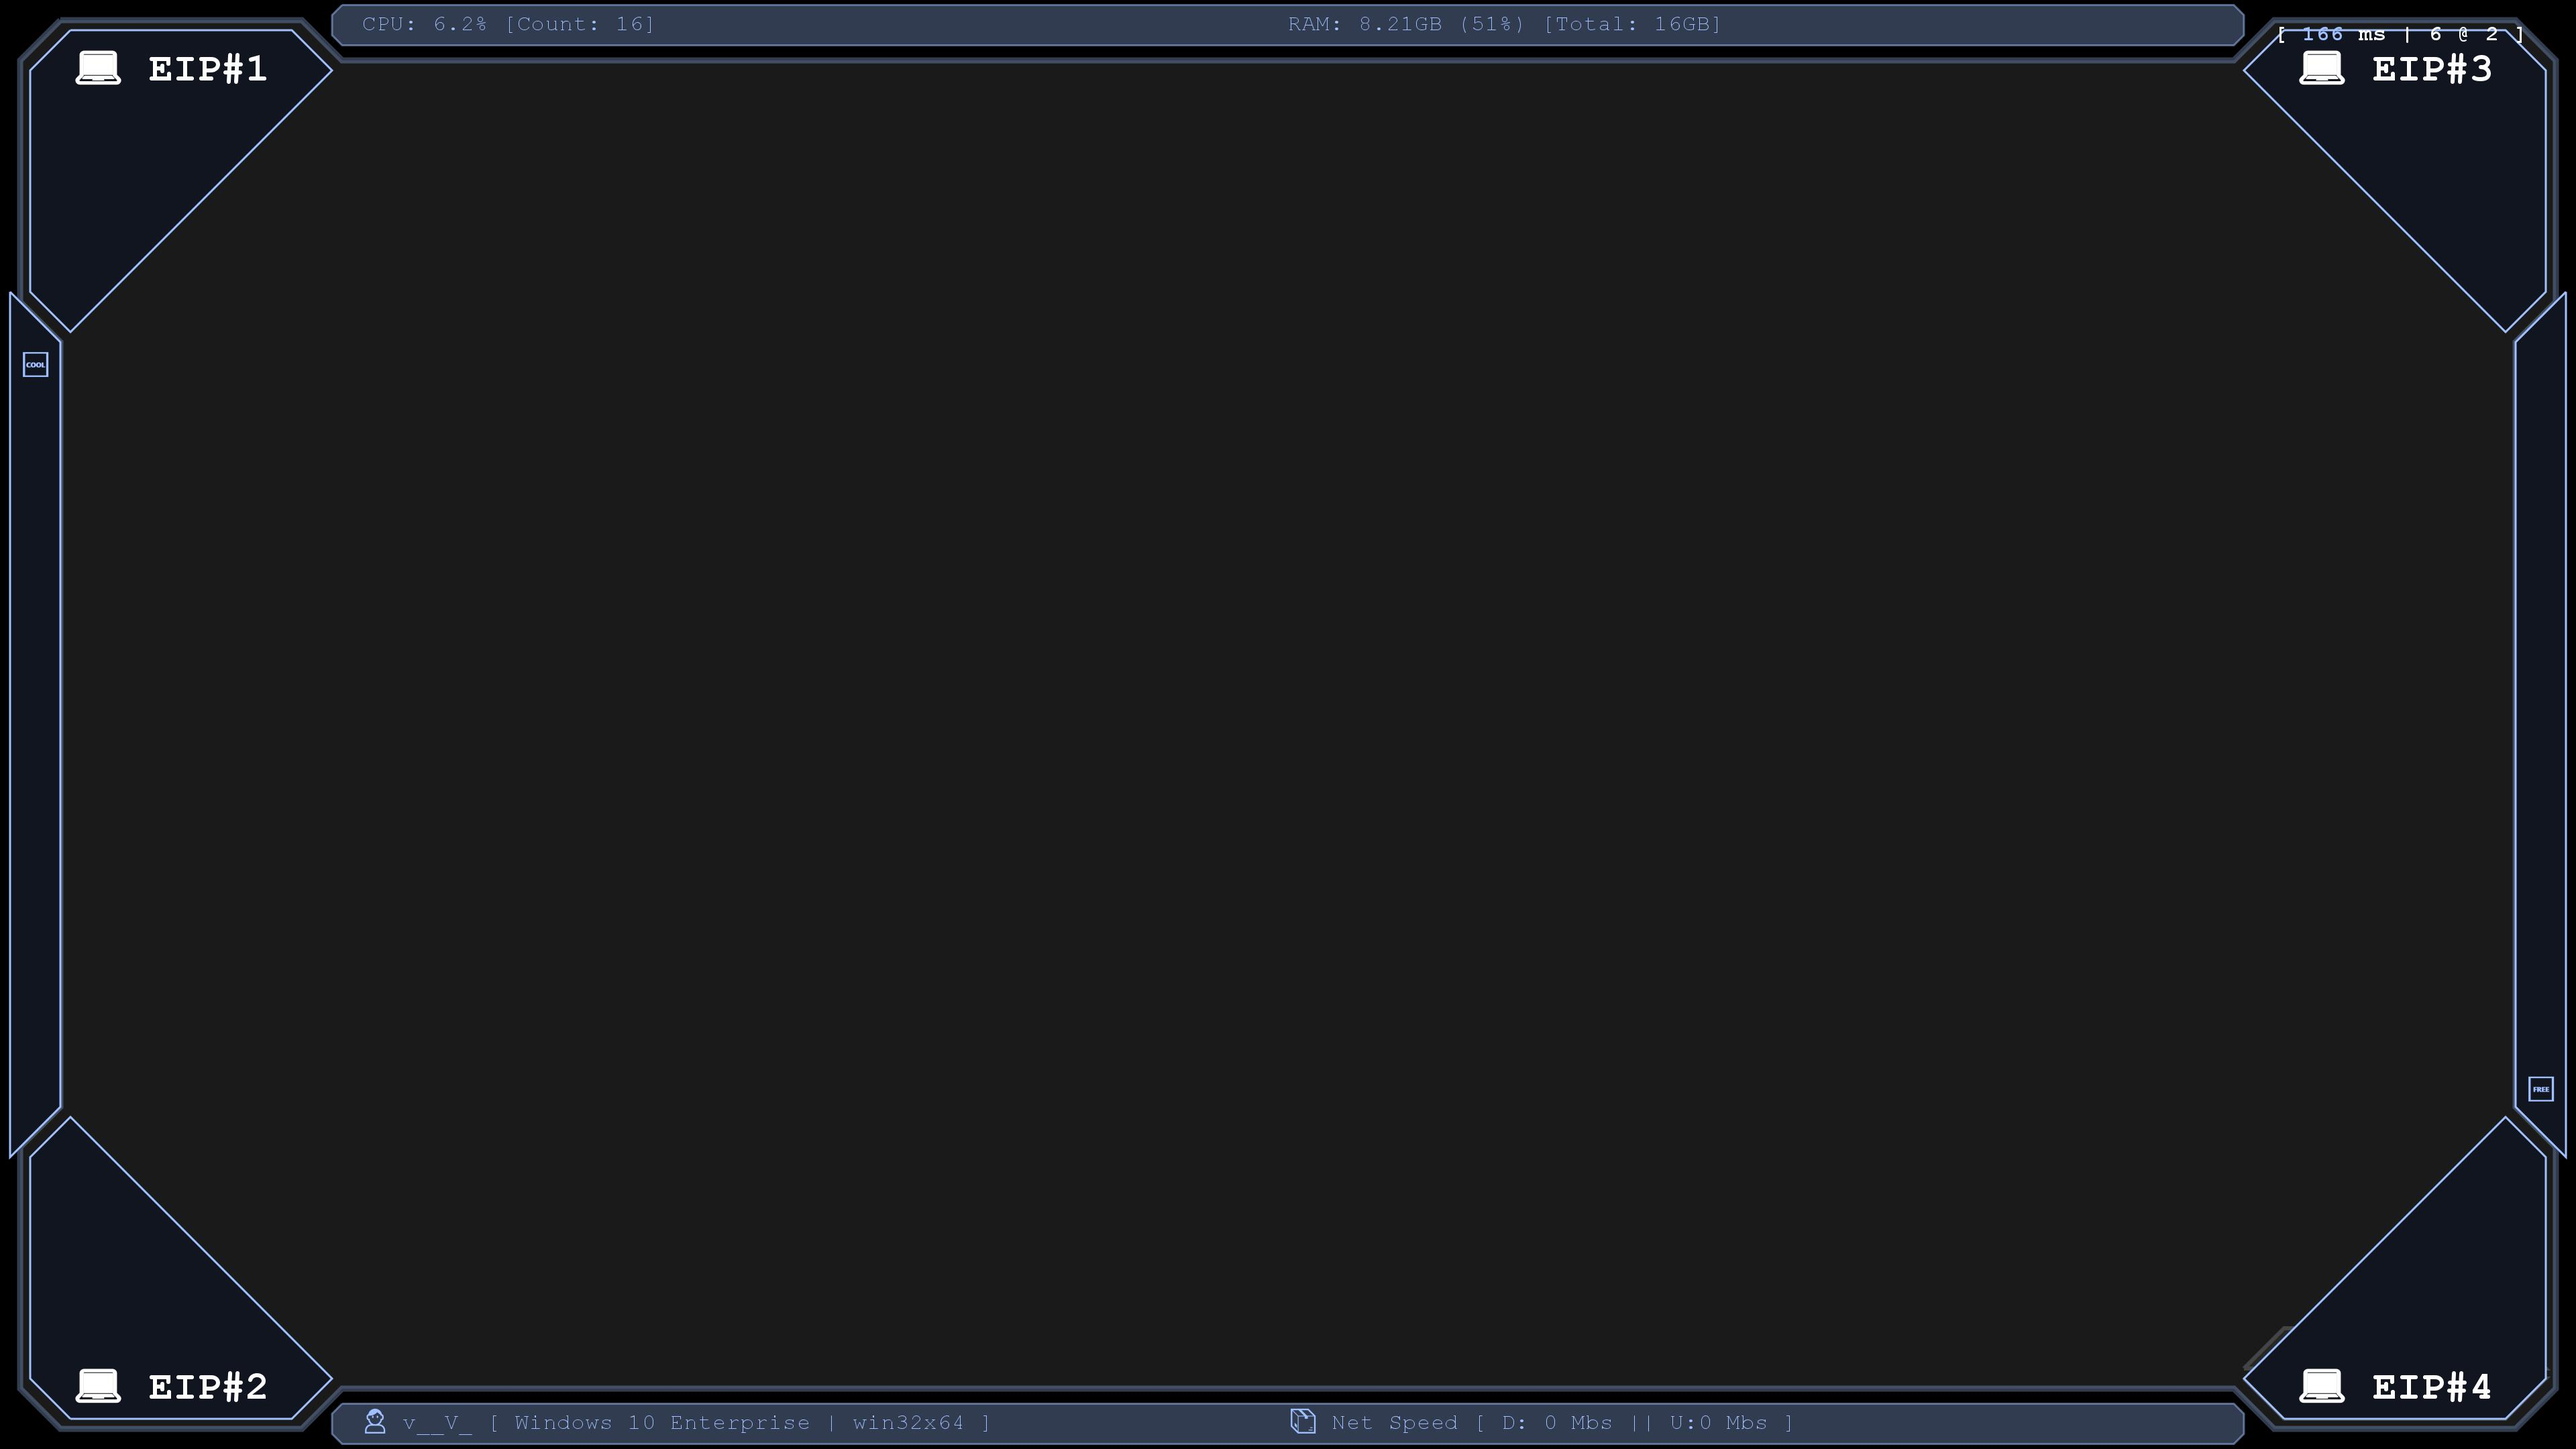
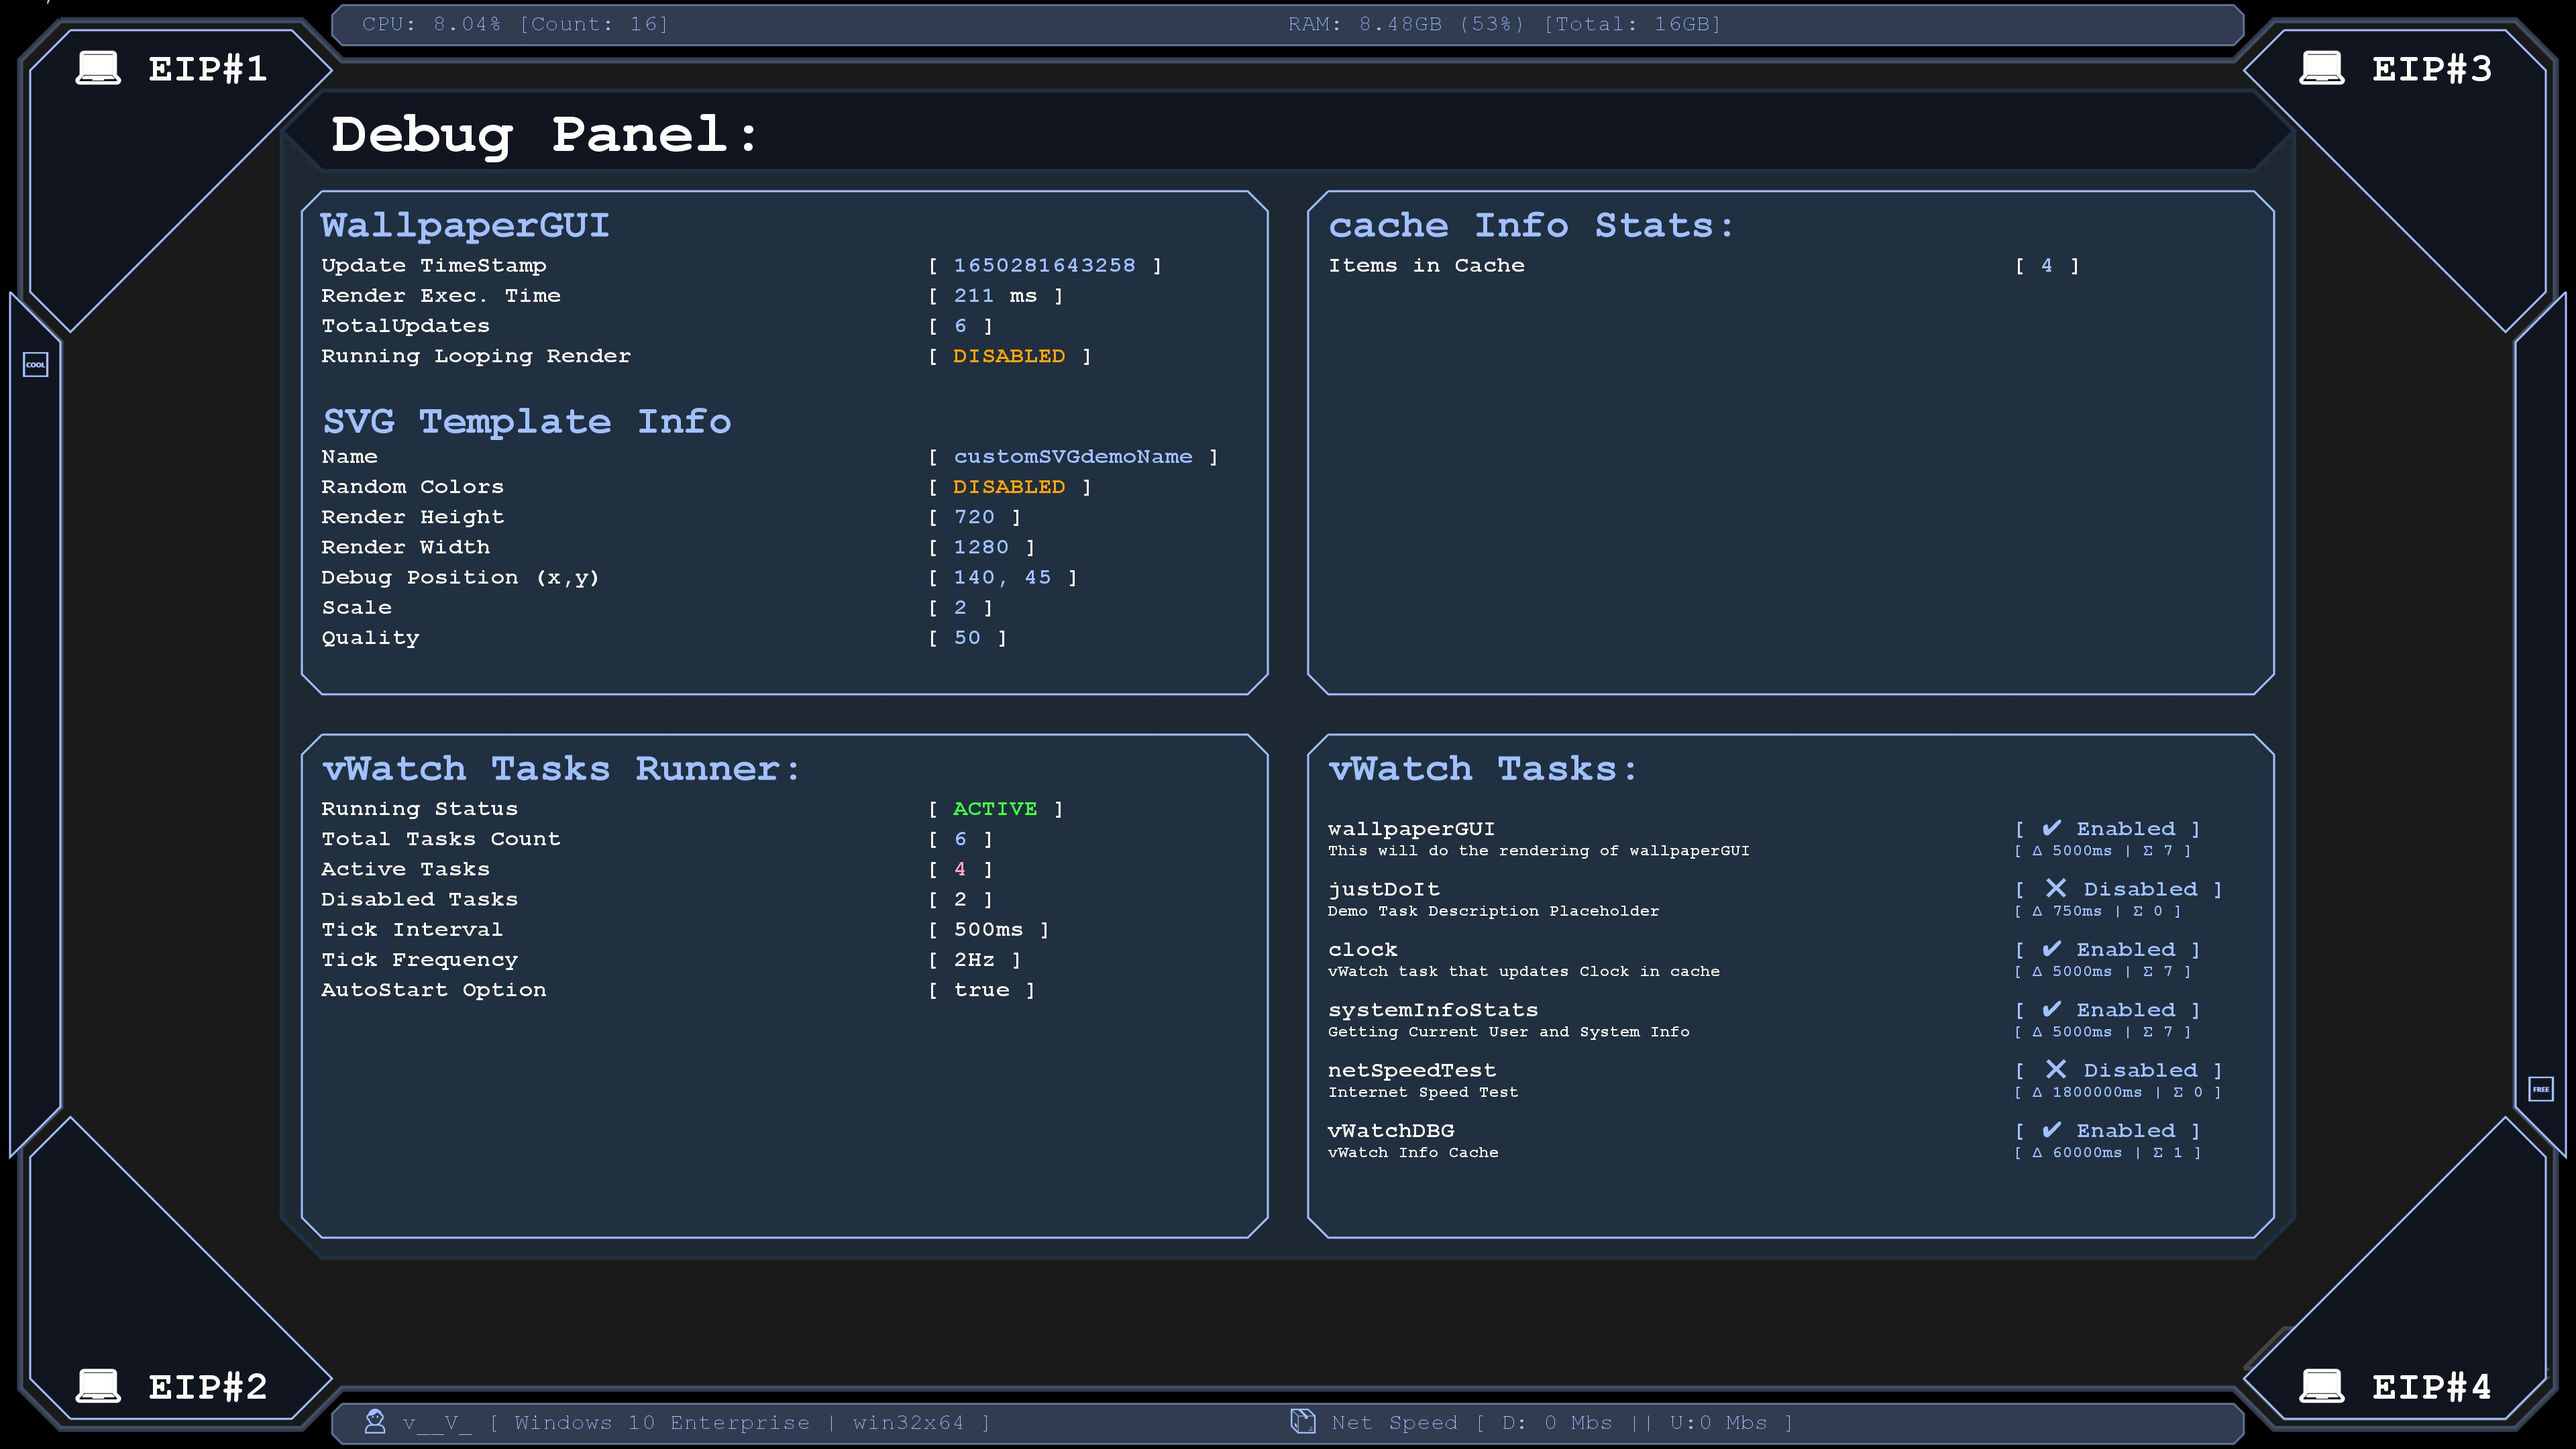
yea fix to cache saving file and some minor improvements to overal thing

diff --git a/source/config/index.js b/source/config/index.js
@@ -2,7 +2,6 @@ const v_fs = require('v_file_system');
 const path = require('path');
 
 
-
 process.title = '-v-';
 
 
@@ -35,8 +34,9 @@ const config = {
 
   set backgroundUpdates(value) {
     if (typeof value === 'boolean') {
+      const { vWatch } = require('../core');
       config.bgUpdates = value;
-      require('../v_watch').setTaskStatus('wallpaperGUI', value);
+      vWatch.setTaskStatus('wallpaperGUI', value);
       return true;
     } else {
       return false;
@@ -102,6 +102,7 @@ const config = {
       notifications: config.notifications,
       backgroundUpdates: config.backgroundUpdates,
       extendedInfo: config.extendedInfoStatus,
+      cacheFilePath: config.cacheFilePath,
     };
 
     return v_fs.writeSy(config.fileLocation, `${JSON.stringify(data, null, 2)}`);
@@ -117,6 +118,7 @@ const config = {
       if (userConfig.notifications !== undefined) config.notifications = userConfig.notifications;
       if (userConfig.backgroundUpdates !== undefined) config.backgroundUpdates = userConfig.backgroundUpdates;
       if (userConfig.extendedInfo !== undefined) config.extendedInfo = userConfig.extendedInfo;
+      if (userConfig.cacheFilePath !== undefined) config.cacheFilePath = userConfig.cacheFilePath;
 
       return userConfig;
     } catch (error) {
@@ -166,6 +168,11 @@ const config = {
   toggleExtendedInfo() {
     config.extendedInfo = !config.extendedInfo;
   },
+
+
+  cacheFilePath: path.join(__dirname, "../core/$_cache.json"),
+
+
 };
 
 

diff --git a/source/index.js b/source/index.js
@@ -1,30 +1,31 @@
 //? Config
-const config = require("./config");
-config.loadConfigFromFile();
+const {
+  exitTimeout,
+  cacheFilePath,
+  saveConfigToFile,
+  loadConfigFromFile,
+} = require("./config");
+
+loadConfigFromFile();
 
 //! Starting App Notification
 const notify = require("./helpers/v_notify");
 notify.app.starting();
 
+//? vWatch - Tasks Runner
+const { cache, vWatch } = require("./core");
+
 //* Init and load cache if available
-const cache = require("./cache");
-cache.fromFile("./cache/$.json");
+cache.fromFile(cacheFilePath);
 
-
+//* Init the tasks
+require("./tasks")();
 
 //? Windows System Tray Icon and Menu
 const v_tray = require("./helpers/v_tray");
 
-
 //? wallpaperGUI - Background GUI
 const wallpaperGUI = require("./wallpaperGUI");
-
-
-//? vWatch - Tasks Runner
-const vWatch = require("./v_watch");
-//* Init tasks
-require("./sysTasks")(vWatch);
-
 
 
 //! Exit Handler
@@ -34,10 +35,10 @@ process.on("SIGINT", async () => {
   notify.app.stopping();
 
   // Save Cache
-  cache.toFile("./cache/$.json");
+  cache.toFile(cacheFilePath);
 
   // Save Config
-  config.saveConfigToFile();
+  saveConfigToFile();
 
   // wallpaperGUI Terminate
   wallpaperGUI.stop();
@@ -49,6 +50,6 @@ process.on("SIGINT", async () => {
   vWatch.stop();
 
   // Set timeout to wait for all tasks to finish
-  setTimeout(() => process.exit(0), config.exitTimeout);
+  setTimeout(() => process.exit(0), exitTimeout);
 
 });

diff --git a/source/tasks/index.js b/source/tasks/index.js
@@ -1,17 +1,30 @@
-const config = require('../config');
-const vWatch = require("../v_watch");
-const { vTime } = require('../helpers');
 
 
 //! System actions [ functions to call/use in vWatch Tasks List ]
-const {
-  justDoIt,
-  clockUpdate,
-  wallpaperGUI,
-  netSpeedTest,
-  systemInfoStats,
-  vWatchDebug,
-} = require('./actions');
+// Example [justDoIt()]
+const justDoIt = require('./justDoIt');
+
+//? Internet Speed Test
+const netSpeedTest = require('./internet-speed-test');
+
+//? Trigger WallpaperGUI [re]Render
+const wallpaperGUI = require('./render-wallpapergui');
+
+//? System Info Stats
+const systemInfoStats = require('./system-info-stats');
+
+//? Clock Update
+const clockUpdate = require('./clock-update');
+
+//? Debugging
+const vWatchDebug = require('./vWatchDebug');
+
+
+
+const config = require('../config');
+const { vWatch } = require("../core");
+const { vTime } = require('../helpers');
+
 
 
 module.exports = sysTasks = async () => {

diff --git a/source/tasks/clock-update.js b/source/tasks/clock-update.js
@@ -1,4 +1,4 @@
-const cache = require('../cache');
+const { cache } = require('../core');
 
 module.exports = clockUpdate = async () => {
 
@@ -16,6 +16,6 @@ module.exports = clockUpdate = async () => {
 
   var strTime = hours + ':' + minutes + ':' + seconds;
 
-  await cache.set("clock", {strTime: strTime, datePrint: datePrint});
+  await cache.set("clock", { strTime: strTime, datePrint: datePrint });
 
 };

diff --git a/source/core/index.js b/source/core/index.js
@@ -1,3 +1,11 @@
+const V_Core_Cache = require('v_core_cache');
+const cache = new V_Core_Cache();
+
+
+const V_Watch  = require('./v_watch');
+const vWatch = new V_Watch({ interval: 500 });
+
 module.exports = {
-  V_Watch: require('./v_watch'),
+  vWatch: vWatch,
+  cache: cache
 };

diff --git a/source/wallpaperGUI/class.js b/source/wallpaperGUI/class.js
@@ -4,7 +4,7 @@ const v_execute = require('v_execute');
 // NPM: svg2png [many more options]
 var svg2img = require('svg2img');
 
-const cache = require('../cache');
+const { cache } = require('../core');
 
 const config = require('../config');
 

diff --git a/source/tasks/internet-speed-test.js b/source/tasks/internet-speed-test.js
@@ -1,6 +1,6 @@
 const speedTest = require('speedtest-net');
 
-const cache = require('../cache');
+const { cache } = require('../core');
 const { byteSizer } = require('v_file_system');
 const { roundNumber } = require('../helpers');
 

diff --git a/source/tasks/system-info-stats.js b/source/tasks/system-info-stats.js
@@ -1,4 +1,4 @@
-const cache = require('../cache');
+const { cache } = require('../core');
 const v_os = require('../helpers/v_os');
 const { byteSizer } = require('v_file_system');
 const { roundNumber } = require('../helpers');

diff --git a/source/tasks/vWatchDebug.js b/source/tasks/vWatchDebug.js
@@ -1,6 +1,5 @@
-const cache = require('../cache');
+const { cache, vWatch } = require('../core');
 
-const vWatch = require("../v_watch");
 
 module.exports = vWatchDebug = async () => {
 

diff --git a/source/wallpaperGUI/template.js b/source/wallpaperGUI/template.js
@@ -1,5 +1,5 @@
 const config = require('../config');
-const cache = require('../cache');
+const { cache } = require('../core');
 
 
 const { getRandomColor } = require('../helpers');
